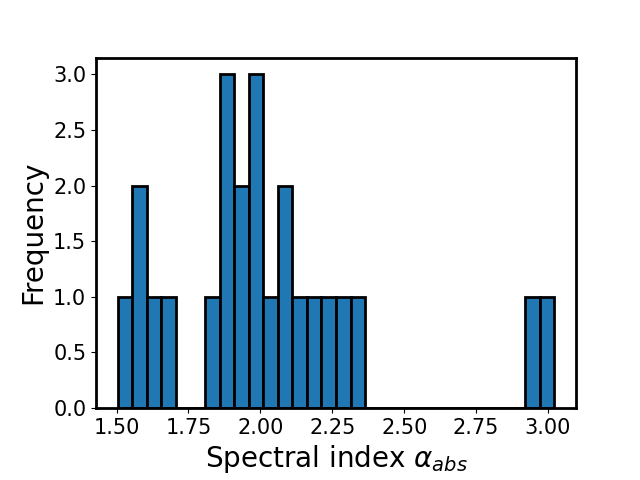
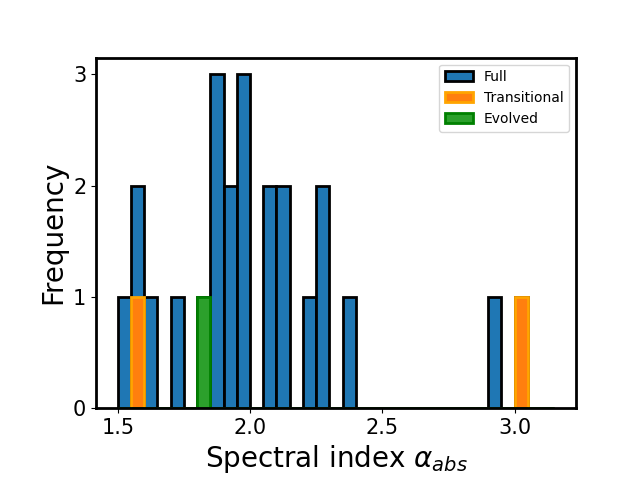
Updates

diff --git a/data_file.py b/data_file.py
@@ -1,12 +1,13 @@
 AU_to_cm = 1.496 * (10 ** 13)
 
-#GARRETT' stuff
+# GARRETT' stuff
 
-source_list_garrett = ['J15530132-2114135', 'J15582981-2310077', 'J15583692-2257153', 'J16001844-2230114', 'J16014086-2258103',
-               'J16020757-2257467', 'J16024152-2138245', 'J16035767-2031055', 'J16042165-2130284', 'J16054540-2023088',
-               'J16062196-1928445', 'J16072625-2432079', 'J16075796-2040087', 'J16082324-1930009', 'J16090075-1908526',
-               'J16111330-2019029', 'J16113134-1838259', 'J16123916-1859284', 'J16135434-2320342', 'J16141107-2305362',
-               'J16142029-1906481', 'J16153456-2242421', 'J16154416-1921171', 'J16181904-2028479']
+source_list_garrett = ['J15530132-2114135', 'J15582981-2310077', 'J15583692-2257153', 'J16001844-2230114',
+                       'J16014086-2258103', 'J16020757-2257467', 'J16024152-2138245', 'J16035767-2031055',
+                       'J16042165-2130284', 'J16054540-2023088', 'J16062196-1928445', 'J16072625-2432079',
+                       'J16075796-2040087', 'J16082324-1930009', 'J16090075-1908526', 'J16111330-2019029',
+                       'J16113134-1838259', 'J16123916-1859284', 'J16135434-2320342', 'J16141107-2305362',
+                       'J16142029-1906481', 'J16153456-2242421', 'J16154416-1921171', 'J16181904-2028479']
 
 # flux (mJy)
 flux_list_2_87mm_garrett = [0.603, 0.58, 5.18, 0.36, 0.28, 0.49, 1.08, 0.41, 5.94, 1, 0.62, 1.08, 2.37, 3.1, 3.19, 0.69,
@@ -62,6 +63,8 @@ temperature_list_barenfeld = []
 temperature_list_barenfeld_error = []
 temperature_list_barenfeld_updated = []
 temperature_list_barenfeld_error_updated = []
+type_barenfeld = []
+type_barenfeld_updated = []
 spectral_type_barenfeld = []
 
 # paper in 2016 has different sources ex. J15521088-2125372 is missing in 2017, but it is present in 2016
@@ -71,6 +74,7 @@ lines = interpolation_function.readlines()[22:]
 for x in lines:
     source_list_barenfeld_2016.append(x.split()[1])
     spectral_type_barenfeld.append(x.split()[2])
+    type_barenfeld.append(x.split()[3])
     luminosity_list_barenfeld.append(float(x.split()[8]))
     luminosity_list_barenfeld_error.append(float(x.split()[9]))
     temperature_list_barenfeld.append(float(x.split()[6]))
@@ -90,7 +94,7 @@ for x in range(len(source_list_barenfeld_2016)):
             luminosity_list_barenfeld_error_updated.append(luminosity_list_barenfeld_error[x])
             temperature_list_barenfeld_updated.append(temperature_list_barenfeld[x])
             temperature_list_barenfeld_error_updated.append(temperature_list_barenfeld_error[x])
-
+            type_barenfeld_updated.append(type_barenfeld[x])
 
 
 flux_barenfeld_0_88mm = []

diff --git a/Histogram_spectral_index.py b/Histogram_spectral_index.py
@@ -1,14 +1,18 @@
 import numpy as np
 import matplotlib.pyplot as plt
+
 fig, ax = plt.subplots()
 
-#set thickness axis
+# Only show integers on y-axis
+plt.yticks([0, 1, 2, 3])
+
+# set thickness axis
 plt.setp(ax.spines.values(), linewidth=2)
 
-#avoid axis labels being cut
+# avoid axis labels being cut
 plt.gcf().subplots_adjust(bottom=0.15, left=0.15)
 
-from data_file import flux_barenfeld_0_88mm_updated, flux_list_2_87mm_garrett, tazzari_lupus_spectral_indices
+from data_file import flux_barenfeld_0_88mm_updated, flux_list_2_87mm_garrett, type_barenfeld_updated
 
 spectral_index_upper_sco = []
 
@@ -21,9 +25,25 @@ def spectra_index(flux_1, flux_2, freq1, freq2):
 for index, element in enumerate(flux_list_2_87mm_garrett):
     spectral_index_upper_sco.append(spectra_index(flux_list_2_87mm_garrett[index], flux_barenfeld_0_88mm_updated[index], 10 ** 11 / 2.87, 10 ** 11 / 0.87))
 
-plt.hist(spectral_index_upper_sco, bins=30, edgecolor='black', linewidth=2)
+bins = np.array(np.arange(1.5, 3.2, 0.05))
+
+type_transitional_spectra_index = []
+type_evolved_spectra_index = []
+for index, element in enumerate(type_barenfeld_updated):
+    if element =='Transitional':
+        type_transitional_spectra_index.append(spectral_index_upper_sco[index])
+
+    if element == 'Evolved':
+        type_evolved_spectra_index.append(spectral_index_upper_sco[index])
+
+plt.hist(spectral_index_upper_sco, bins=bins, edgecolor='black', linewidth=2, label='Full')
+plt.hist(type_transitional_spectra_index, bins=bins, edgecolor='orange', linewidth=2, label='Transitional')
+plt.hist(type_evolved_spectra_index, bins=bins, edgecolor='green', linewidth=2, label='Evolved')
+
 plt.ylabel('Frequency', fontsize=20), plt.xlabel(r'Spectral index $\alpha_{abs}$', fontsize=20)
+
 #plt.title('Frequency vs Spectral Index', fontsize=20)
 ax.tick_params(which='both', labelsize=15)
+plt.legend()
 plt.savefig('Spectral index frequency')
-#plt.show()
+plt.show()

diff --git a/Cumulative_spectral_indices.py b/Cumulative_spectral_indices.py
@@ -118,6 +118,7 @@ plt.scatter(flux_list_ophiucus_ricci_1mm, spectral_index_ophiucus, label='Ophiuc
 plt.scatter(flux_lupus_1_mm, tazzari_lupus_spectral_indices, label='Lupus', marker='^', color='black')
 plt.scatter(ricci_taurus_fluxes_1mm, spectral_indices_taurus, label='Taurus', marker='s')
 plt.scatter(flux_barenfeld_0_88mm_updated, spectral_index_upper_sco, label='Upper Sco', color='red')
+plt.xticks(np.array(np.arange(1.4, 3.1, 0.1)))
 plt.xlabel('$Flux_{1mm}$', fontsize=20), plt.ylabel(r'$\alpha$', fontsize=20)
 plt.xscale('log')
 plt.legend()
@@ -163,11 +164,3 @@ x_axis = []
 luminosity_list_barenfeld_updated = [10**x for x in luminosity_list_barenfeld_updated]
 for index, element in enumerate(radius_dust_updated):
     x_axis.append((luminosity_list_barenfeld_updated[index]/(element**2)) ** (1/4))
-plt.scatter(x_axis, spectral_index_upper_sco)
-plt.ylim(1.4,2)
-plt.show()
-
-plt.scatter(temperature_list, spectral_index_upper_sco)
-plt.ylim(1.4,2)
-plt.loglog()
-plt.show()
